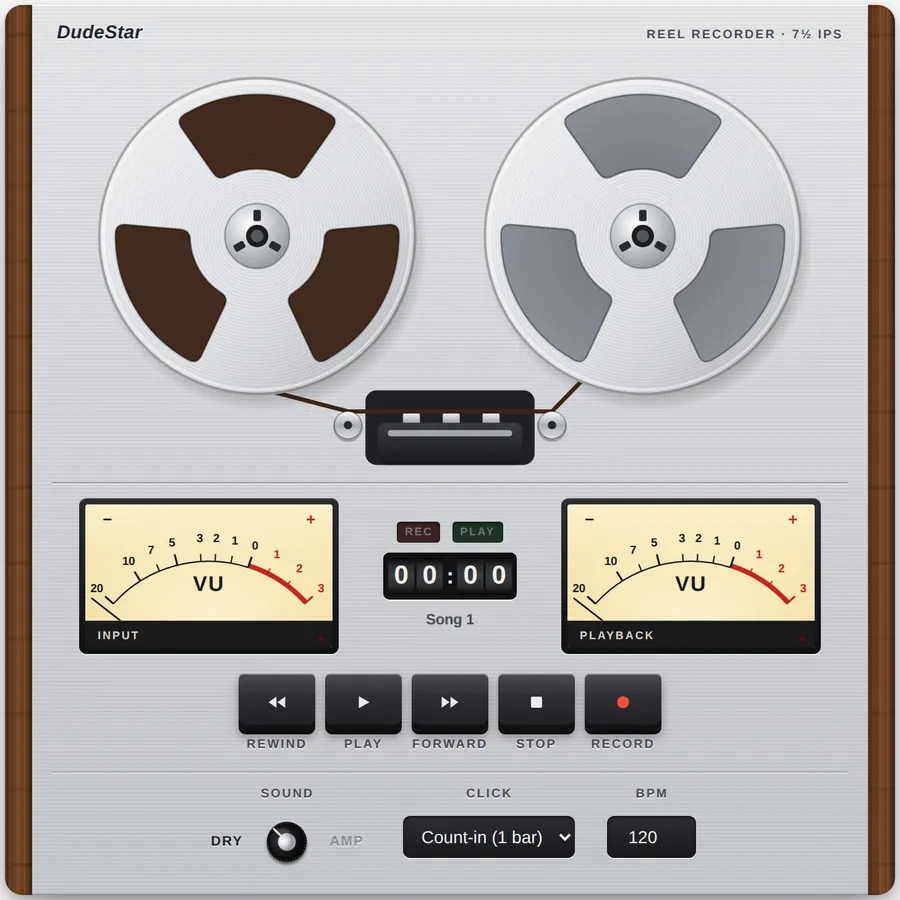
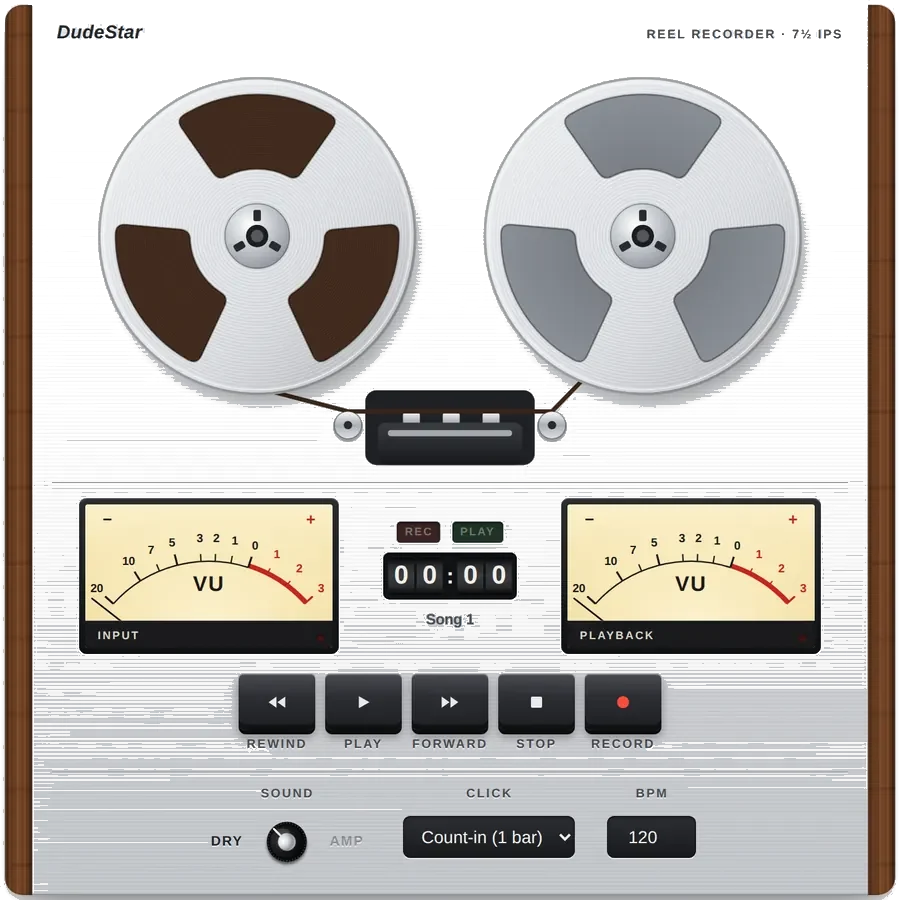
Install page: one white frame; screenshots on transparent backgrounds, no grey behind the pictures
Claude-Session: https://claude.ai/code/session_01Lja3nifXGPpxthgc1y42Tx

diff --git a/src/install/InstallPage.css b/src/install/InstallPage.css
@@ -855,3 +855,36 @@
   from { opacity: 0; }
   to { opacity: 1; }
 }
+
+/* ---- one frame (user's request 2026-10-21): the whole page is ONE white
+   card; the guide, the pictures (and the QR on a computer) sit inside it
+   with no frames of their own and no grey behind the pictures ---- */
+.inst-main {
+  box-sizing: border-box;
+  background: var(--surface);
+  border: 1px solid var(--border);
+  border-radius: 24px;
+  box-shadow: var(--shadow-sm);
+  padding: 4px 0 10px;
+  gap: 0;
+  overflow: hidden;
+}
+
+.inst-main > .inst-card {
+  background: transparent;
+  border: none;
+  border-radius: 0;
+  box-shadow: none;
+}
+
+.inst-showcase {
+  padding-top: 0;
+}
+
+.reel-stage {
+  background: transparent;
+}
+
+.reel-shot {
+  filter: none; /* the shots carry their own soft shadows (transparent bg) */
+}

diff --git a/CLAUDE.md b/CLAUDE.md
@@ -914,7 +914,13 @@ on the container; content inside stays top-aligned). Stacked on a phone
   vars into `@keyframes reel-in`: fade + grow/slide, then slow drift; the old
   one grows on and fades), caption per language under it, NO progress bar
   (user removed it), tap = next shot, nothing opens. The old `.inst-wheel*`
-  CSS is unused. The page fits one screen (height 100svh, the
+  CSS is unused. ONE FRAME (user's request 2026-10-21): `.inst-main` is the
+  only white card (border/shadow/radius); the inner `.inst-card`s have no
+  frame of their own and the reel stage no grey — the pictures are part of
+  the page. The shots have TRANSPARENT backgrounds (keyed with scratchpad
+  keybg.py: light neutral pixels flood-filled from the border -> black with
+  alpha = darkness, so shadows stay and look identical on white); no CSS
+  drop-shadow. The page fits one screen (height 100svh, the
   picture takes the height left; desktop = guide | picture | QR in a row;
   scrolls only under 560px tall); EN/HE pill in the guide card's corner.
   The text link under Install = "Continue in the browser" (`inst.browser`): iOS
